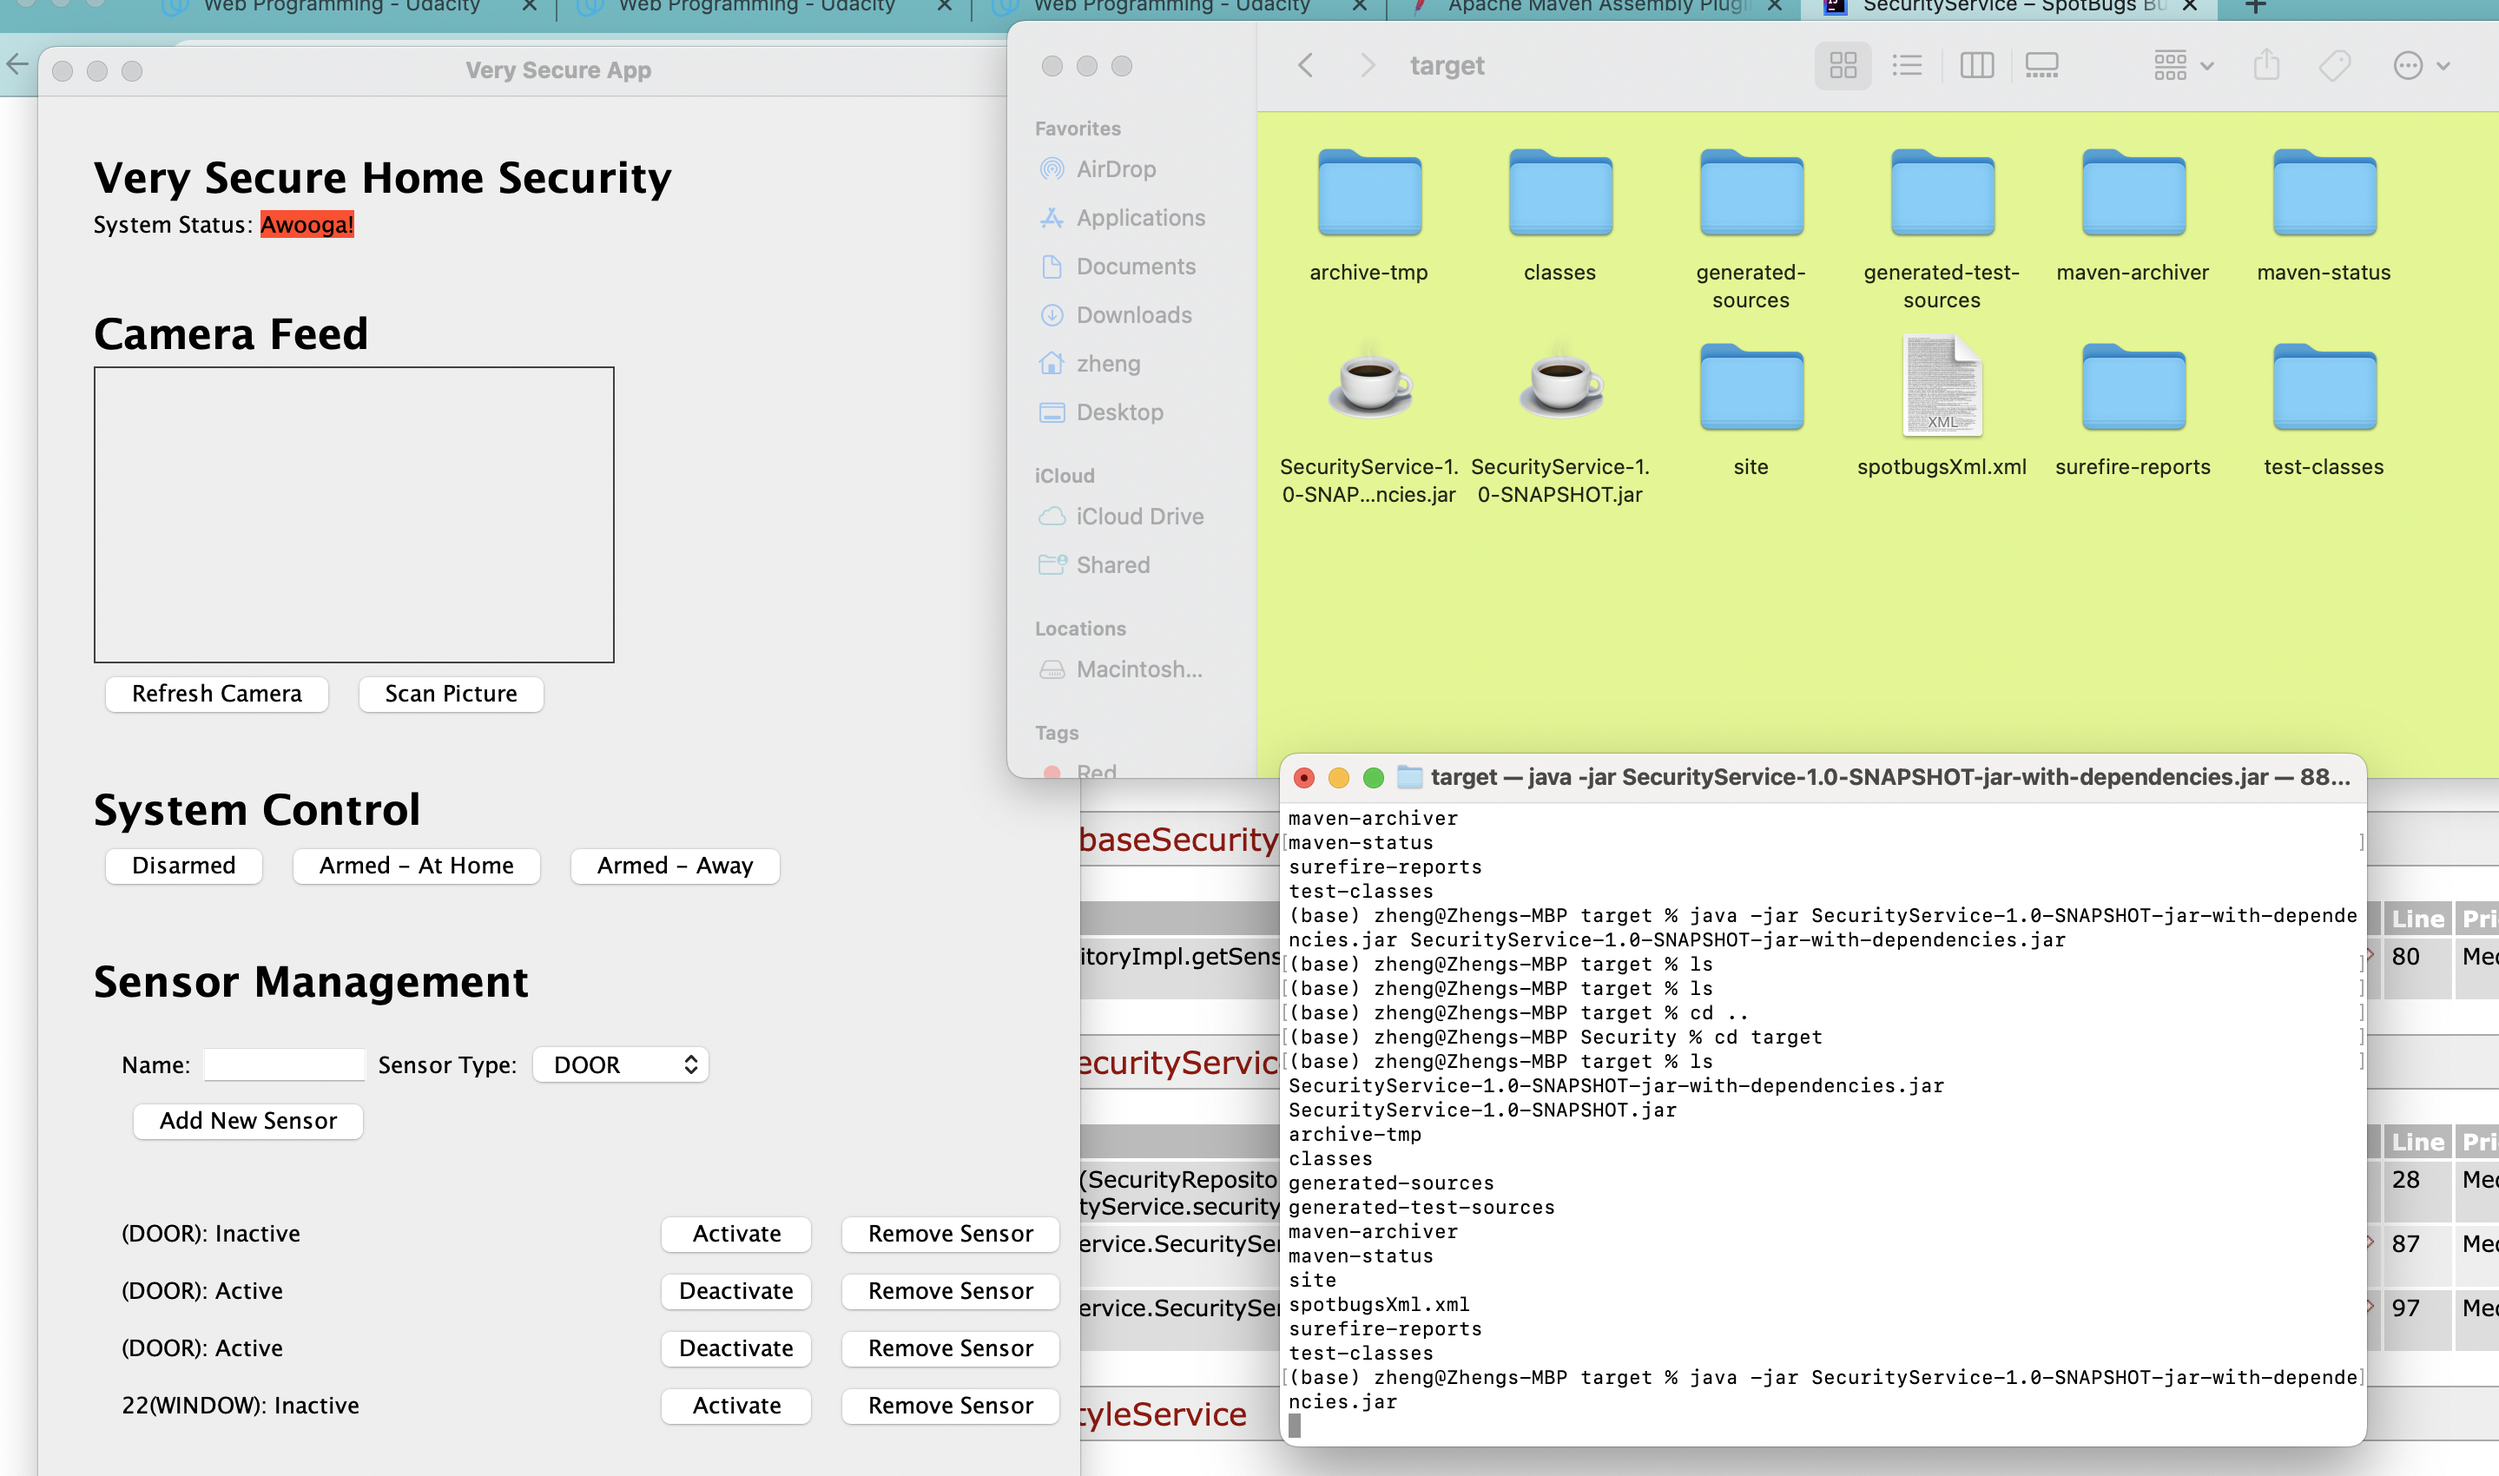
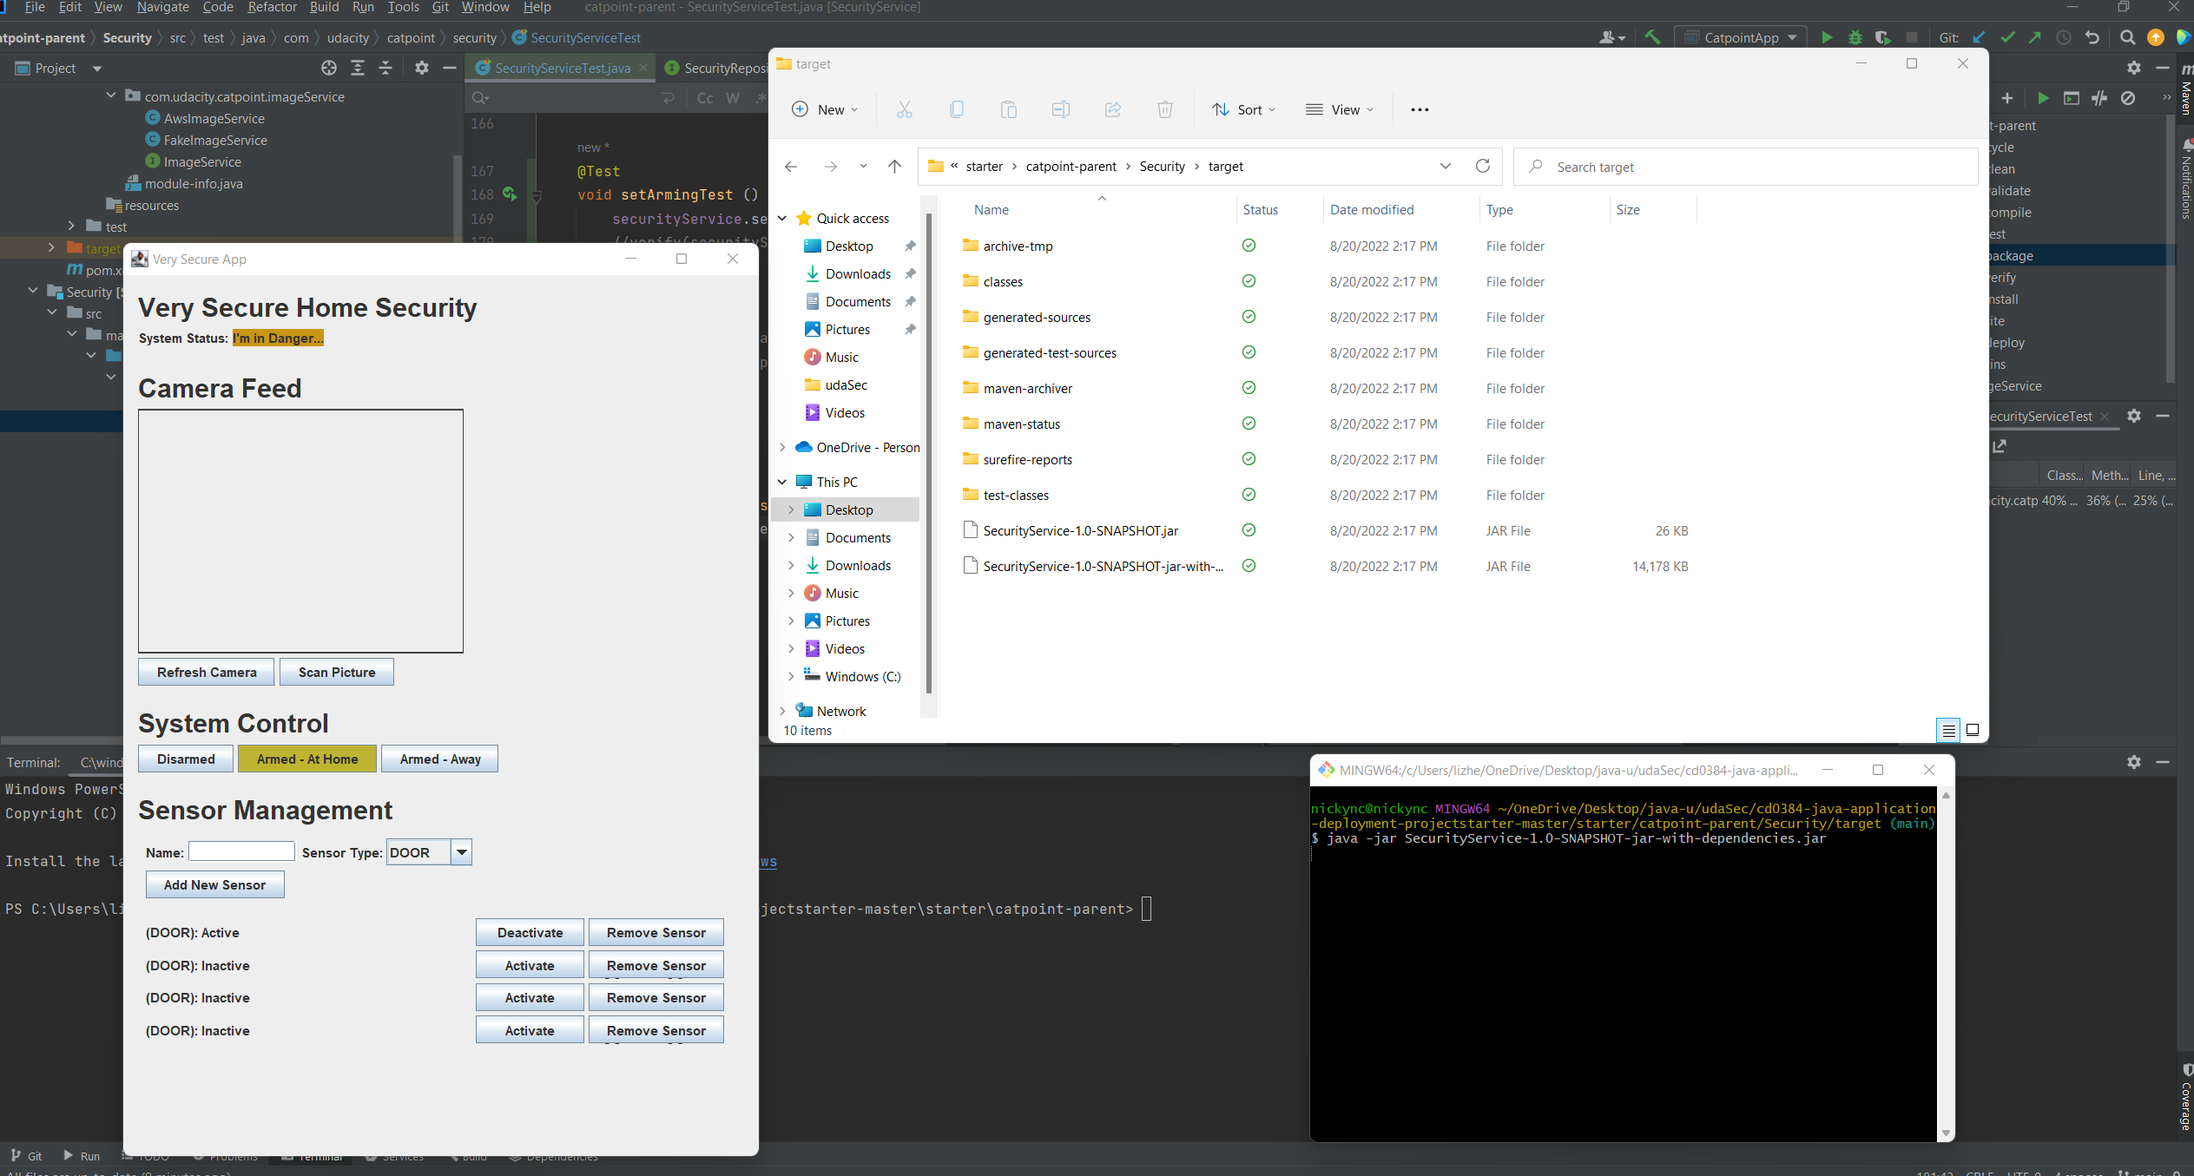
final

diff --git a/udaSec/cd0384-java-application-deployment-projectstarter-master/starter/catpoint-parent/Security/src/main/java/com/udacity/catpoint/security/securityService/SecurityService.java b/udaSec/cd0384-java-application-deployment-projectstarter-master/starter/catpoint-parent/Security/src/main/java/com/udacity/catpoint/security/securityService/SecurityService.java
@@ -37,8 +37,14 @@ public class SecurityService {
     public void setArmingStatus(ArmingStatus armingStatus) {
         if(armingStatus == ArmingStatus.DISARMED) {
             setAlarmStatus(AlarmStatus.NO_ALARM);
+
+        } else {
+            Set<Sensor> sensors = new HashSet<>(getSensors());
+            sensors.forEach(i -> changeSensorActivationStatus(i,false));
         }
+
         securityRepository.setArmingStatus(armingStatus);
+        statusListeners.forEach(StatusListener::sensorStatusChanged);
     }
 
     /**
@@ -96,7 +102,7 @@ public class SecurityService {
     private void handleSensorDeactivated() {
         switch(securityRepository.getAlarmStatus()) {
             case PENDING_ALARM -> setAlarmStatus(AlarmStatus.NO_ALARM);
-            case ALARM -> setAlarmStatus(AlarmStatus.PENDING_ALARM);
+            //case ALARM -> setAlarmStatus(AlarmStatus.PENDING_ALARM);
         }
     }
 
@@ -116,6 +122,10 @@ public class SecurityService {
                 handleSensorDeactivated();
             }
         }
+
+//        if (alarmStatus == AlarmStatus.ALARM){
+//            handleSensorDeactivated();
+//        }
         sensor.setActive(active);
         securityRepository.updateSensor(sensor);
     }

diff --git a/udaSec/cd0384-java-application-deployment-projectstarter-master/starter/catpoint-parent/Security/src/test/java/com/udacity/catpoint/security/SecurityServiceTest.java b/udaSec/cd0384-java-application-deployment-projectstarter-master/starter/catpoint-parent/Security/src/test/java/com/udacity/catpoint/security/SecurityServiceTest.java
@@ -164,4 +164,20 @@ public class SecurityServiceTest {
         securityService.removeSensor(sensor);
     }
 
+    @Test
+    void setArmingTest () {
+        securityService.setArmingStatus(ArmingStatus.DISARMED);
+        //verify(securityService,times(1)).setArmingStatus(ArmingStatus.DISARMED);
+    }
+
+//    @Test
+//    void handleSensorDeactivatedTest(){
+//        when(securityRepository.getAlarmStatus()).thenReturn(AlarmStatus.ALARM);
+//
+//    }
+
+    @Test
+    void getAlarmStatusTest(){
+        securityService.getAlarmStatus();
+    }
 }
